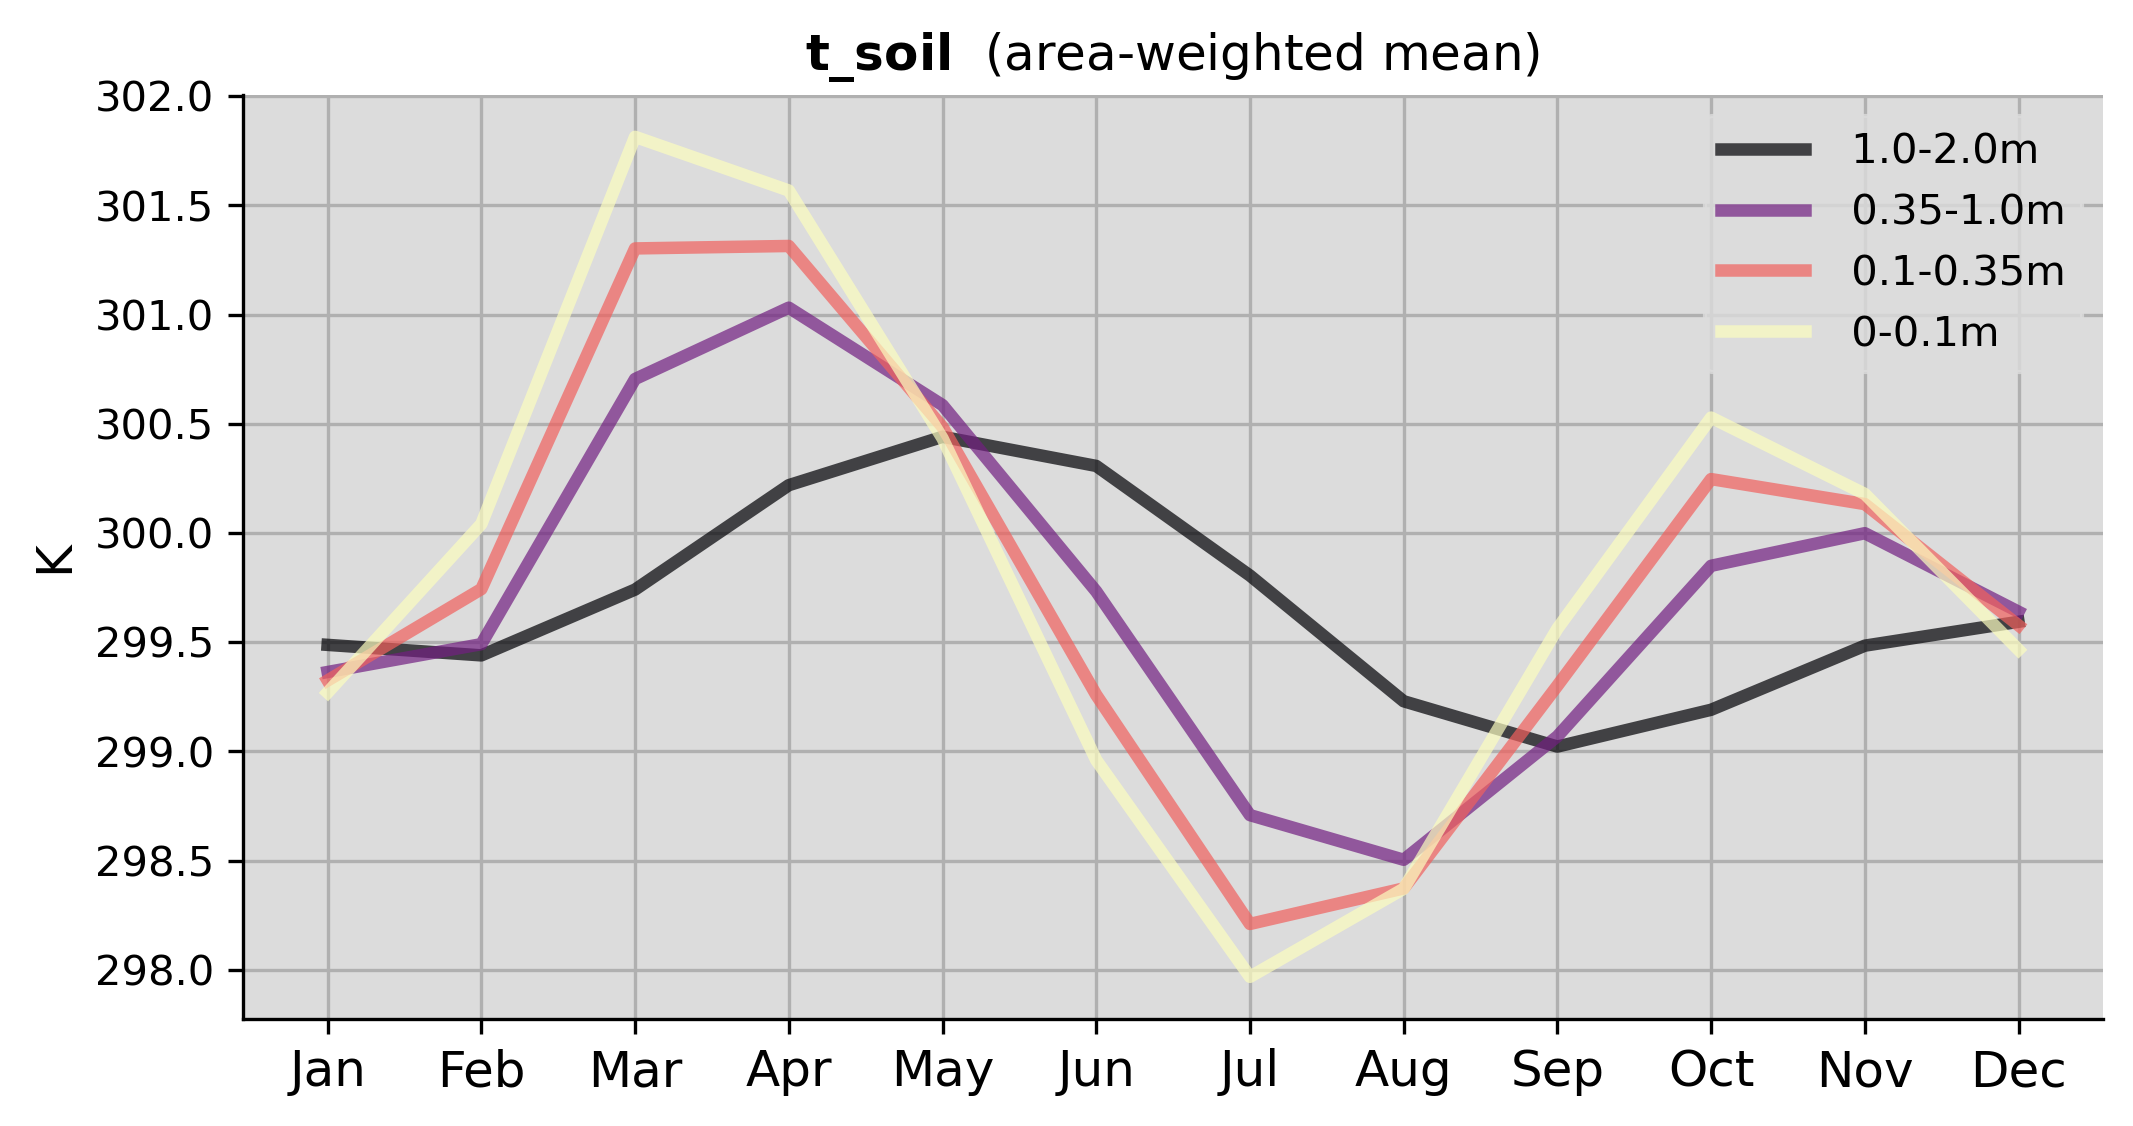
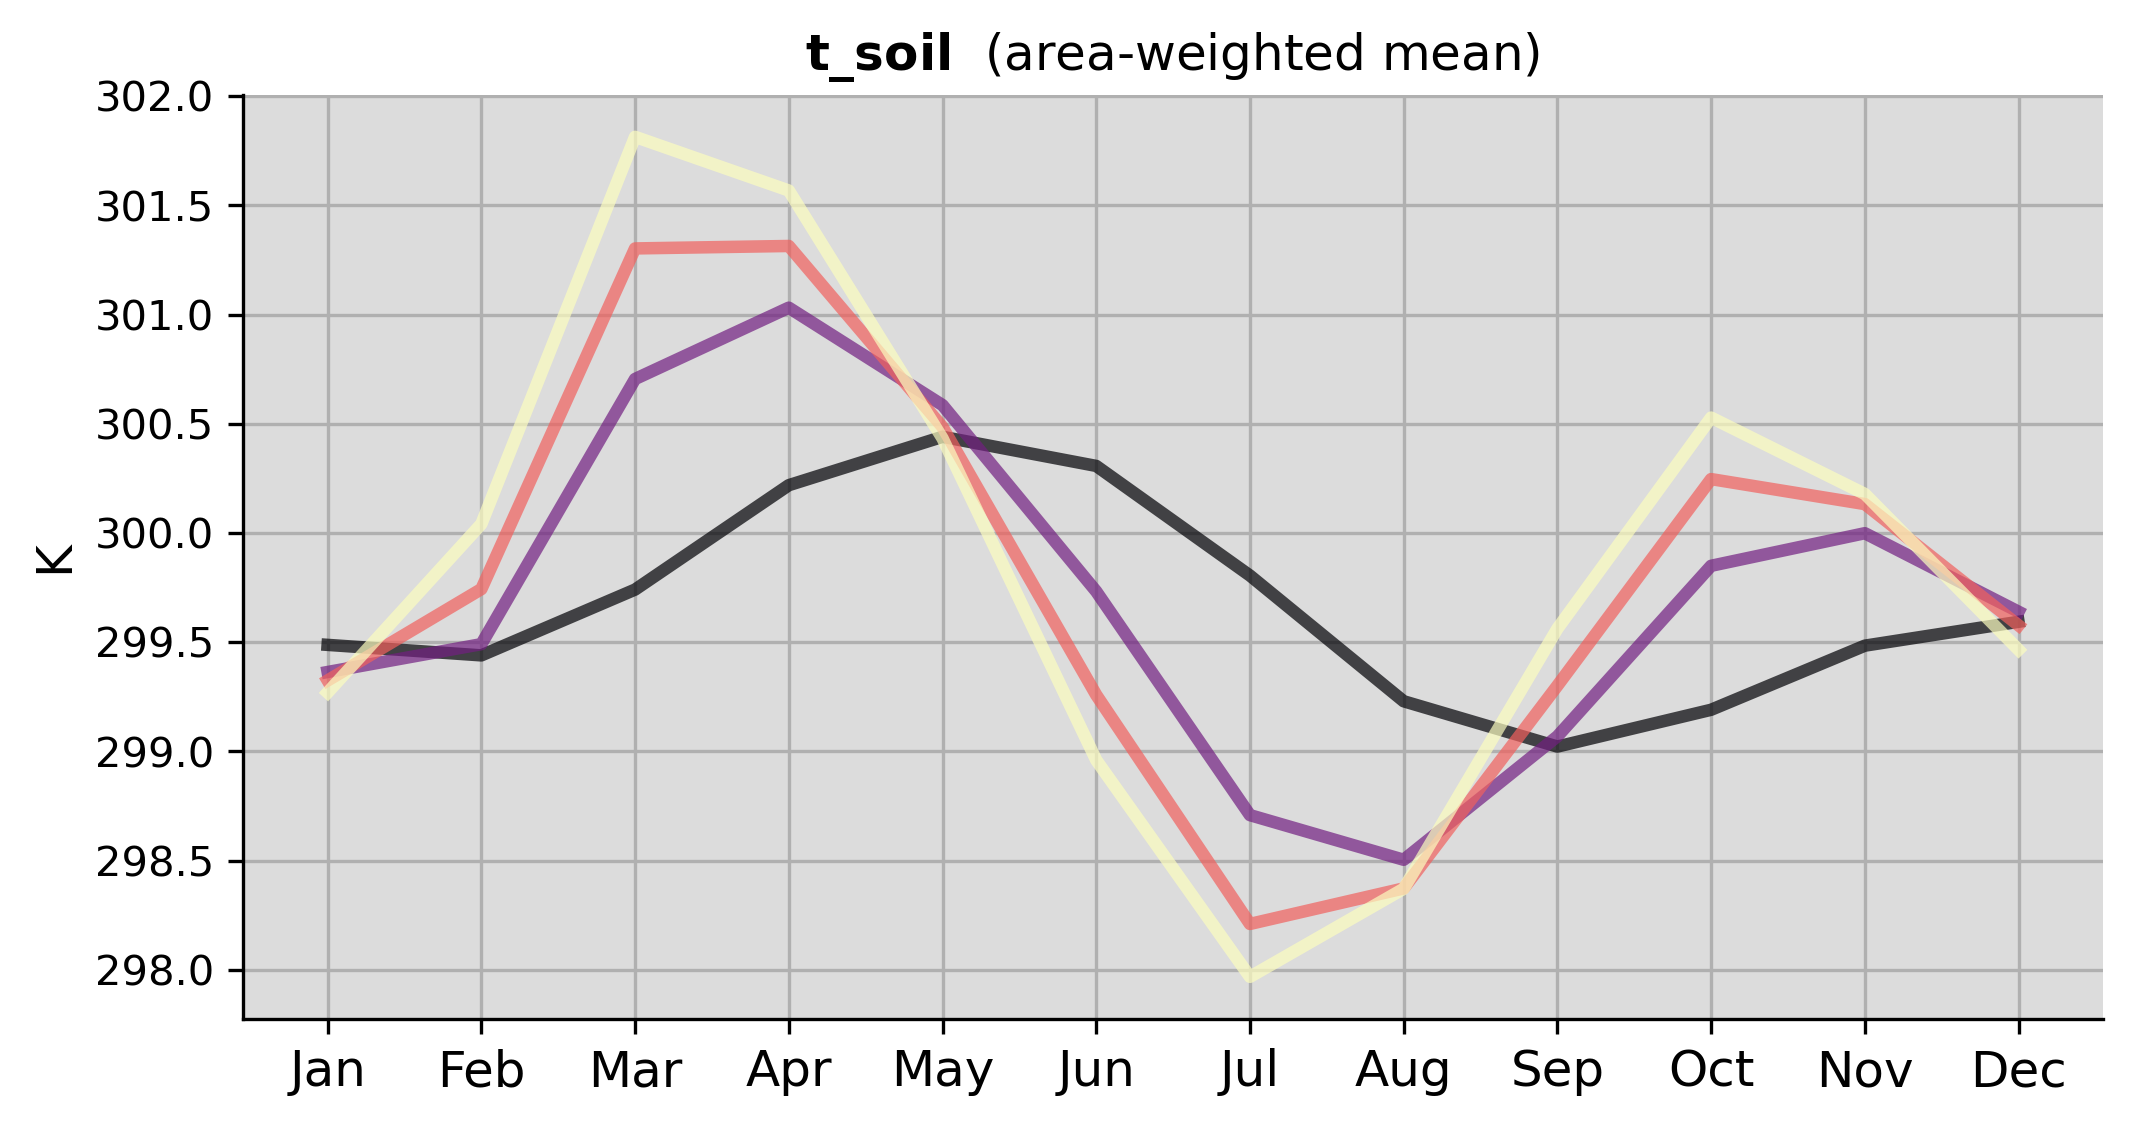
commented JULES_test2.py, before trying a loop-version of the t-series function

Changed region(s): [[0.8045, 0.1243, 0.9592, 0.3108]]

diff --git a/JULES_test2.py b/JULES_test2.py
@@ -132,11 +132,14 @@ def make_tseries():
     grouped = {}
     grouped_files = {}
 
+    # Make a list of every t-series file across all of the input variables
     files = [os.path.join(r, f) for r, _, fs in os.walk(outp_path) for f in fs if f.endswith('.txt')]
-
     files = miscOPS.filter_strings_by_substrings(files, variable_names)
 
+    # Loop through every t-series file
     for f in files:
+
+        # Recover the variable name from the file path
         parts = os.path.normpath(f).split(os.sep)
         try:
             i = parts.index('output')
@@ -145,24 +148,21 @@ def make_tseries():
         except ValueError:
             key = os.path.basename(os.path.dirname(f))
         
+        # Group the t-series file paths by their variables: Dictionary with {variable1: [t-series list], variable2: [t-series list]}
         grouped.setdefault(key, []).append(pd.read_csv(f, header=None)[0].tolist())
         grouped_files.setdefault(key, []).append(f)
 
     cmap = colormaps['magma']
 
+    # Loop through each variable in the grouped dictionary
     for k in grouped:
+
+        # Recover variable metadata, particuarly the unit
         k_array, k_unit, k_long_name, k_dims = readJULES.read_jules_m2(data_path + file_name, k)
+
+        # T-series plot prep.
         fig, ax = plt.subplots(figsize=(8, 4))
-        n = len(grouped[k])
-        for i, (series, fpath) in enumerate(zip(grouped[k], grouped_files[k])):
-            final_directory_path = '/'.join(fpath.split('/')[0:-1])
-            print('save here: ', final_directory_path + '/' + final_directory_path.split('/')[-1] + '.gif')
-            miscOPS.pngs_to_gif(final_directory_path, final_directory_path + '/' + final_directory_path.split('/')[-1] + '.gif', duration=150, smooth=True, exclude_substr='plot_')
-            label = miscOPS.remove_parenthetical_substrings(os.path.basename(os.path.dirname(fpath))).replace("p",".")
-            color = cmap(i / max(n - 1, 1))  # normalize i to [0,1]
-            ax.plot(series, alpha=0.7, label=label, linewidth=3.0, color=color)
-        k_escaped = k.replace('_', r'\_')
-        ax.set_title(rf"$\mathbf{{{k_escaped}}}$" + "  (area-weighted mean)")
+        ax.set_title(rf"$\mathbf{{{k.replace('_', r'\_')}}}$" + "  (area-weighted mean)")
         ax.set_xticks(range(12))
         ax.set_xticklabels(['JanFebMarAprMayJunJulAugSepOctNovDec'[i*3:i*3+3] for i in range(12)], fontsize=12)
         ax.set_ylabel(k_unit, fontsize=12)
@@ -171,13 +171,29 @@ def make_tseries():
         ax.legend(edgecolor='gainsboro', facecolor='gainsboro', fontsize=10)
         ax.set_facecolor('gainsboro')
         ax.grid(True)
+
+        # For the current variable, loop through all of its t-series arrays (and their file paths)
+        for i, (series, fpath) in enumerate(zip(grouped[k], grouped_files[k])):
+
+            # Get the name of the end-directory for the current t-series, so the code remembers where it belongs in the tree
+            final_directory_path = '/'.join(fpath.split('/')[0:-1])
+            print('save here: ', final_directory_path + '/' + final_directory_path.split('/')[-1] + '.gif')
+
+            # While we know the end-directory, we might as well make an animated gif of the monthly maps, using all the existing png's
+            miscOPS.pngs_to_gif(final_directory_path, final_directory_path + '/' + final_directory_path.split('/')[-1] + '.gif', duration=150, smooth=True, exclude_substr='plot_')
+
+            # Plot the t-series, colored to differentiate it from other t-series belonging to the variable
+            label = miscOPS.remove_parenthetical_substrings(os.path.basename(os.path.dirname(fpath))).replace("p",".")
+            color = cmap(i / max(len(grouped[k]) - 1, 1))
+            ax.plot(series, alpha=0.7, label=label, linewidth=3.0, color=color)
         
+        # Save the plot in the variable's main directory
         out_dir = outp_path + 'output/' + k
-        print('k: ', k)
         out_path = os.path.join(out_dir, f"plot_{k}.png")
-        print('fig saved to: ', out_path)
         plt.savefig(out_path, dpi=300, bbox_inches='tight')
         plt.close()
+        print('fig saved to: ', out_path)
+        
 
 #make_maps()
 make_tseries()

diff --git a/plotPARAMS.py b/plotPARAMS.py
@@ -10,7 +10,7 @@ variable_names = ['t_soil', 'fch4_wetl', 'tstar_gb', 'frac', 'lai', 'lai_gb', 'l
                   'precip', 'ls_rain', 'pstar', 'qw1', 'tl1', 'u1', 'v1', 'co2_mmr', 'albsoil',
                   'b', 'fexp', 'hcap', 'hcon', 'satcon', 'sathh', 'sm_crit', 'sm_sat', 'sm_wilt',
                   'ti_mean', 'ti_sig']
-variable_names = ['t_soil']
+variable_names = ['t_soil', 'fch4_wetl']
 
 # Year
 year = 2016

diff --git a/autoGitHub.py b/autoGitHub.py
@@ -10,4 +10,4 @@ def push2GitHub(message):
     os.system(f'git commit -m "{message}"')
     os.system("git push -u origin main")
 
-push2GitHub('added animated map')
+push2GitHub('commented JULES_test2.py, before trying a loop-version of the t-series function')
